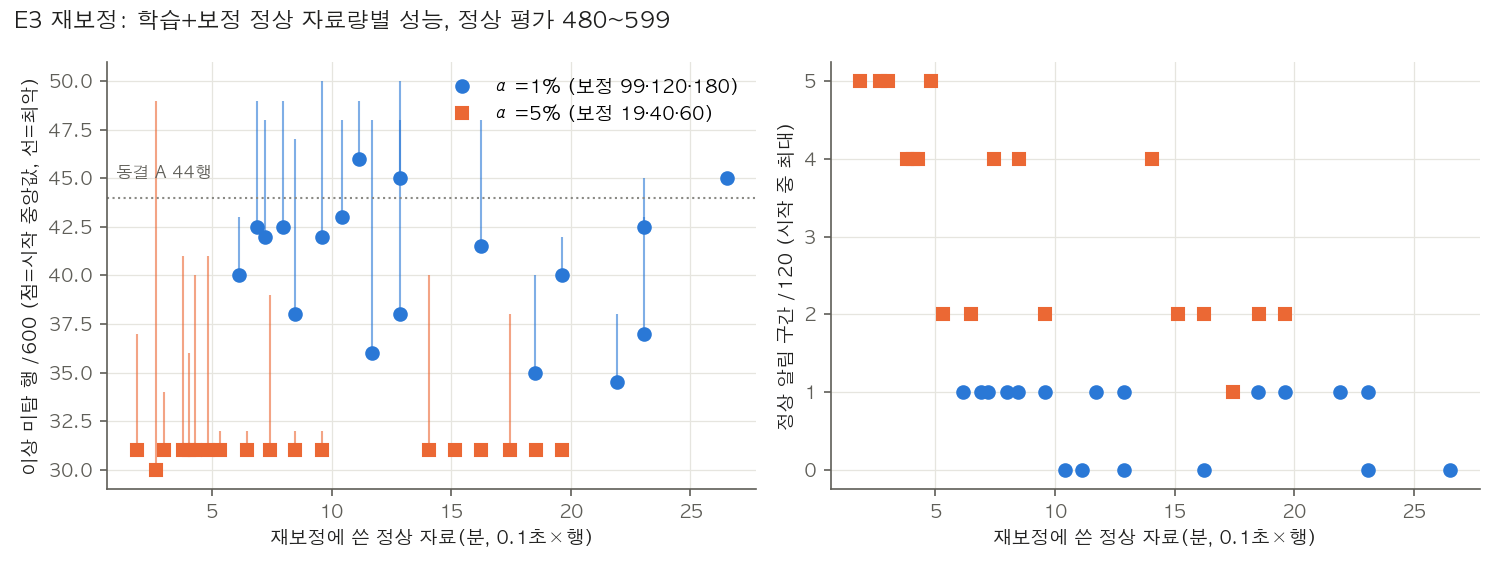
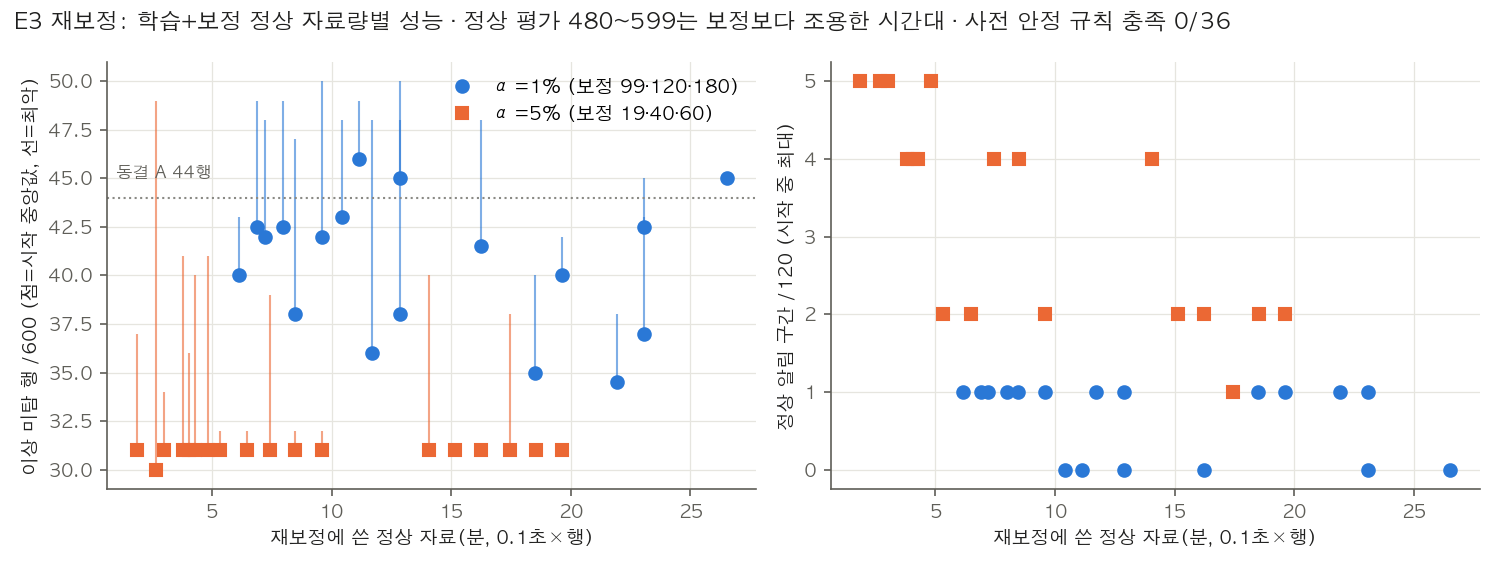
yejun/: 루브릭 검수 1단계 — 보완 실험·비교·press_guard 문서와 그림 정정(R1 맥락·R5·R11~R13·R17 일부)
한 일: 루브릭 검수(d9655af)의 문서·그림 정정 묶음을 반영했다. 결과 재계산은 하지 않았다.
- R5: E3의 "사전 규칙 적용 불가"를 "36설정 모두 미충족, 사전 규칙상 최소 자료량 확인 못 함"으로 바로잡고, 15+99(약 6분)는 동일 날짜 사후 탐색값으로 분리했다.
- R12: 배수 표현을 좁혔다(전류 잔차 환산 5배, 오프셋 1.3배, 2배 격자의 한 단계).
- R13: "전류 주입 모두 100%" 오류를 고쳤다.
- R1: A 평가 구간이 가장 조용한 시간대라는 맥락을 붙였다(press_guard·supplement·dayshift·yejun README).
- R11: E1 그림에 분할별 무주입 경보율, 조건부 지연 표시, 분모를 넣었다.
- R17 일부: audit 14→16개.
- 비교 기록: 주최 측 무응답 회신과 검수 78점 기준 차이를 반영했다.
결과: 문서 6개, figures.py, 그림 2개. 표 칸 안 `|` 때문에 깨지던 표도 고쳤다. 콘솔 문구 "위치 2~6"(R17 나머지)은 audit 해시 대상인 web/index.html 변경이라, 전체 재실행이 필요한 3단계로 옮겼다.
다음: 2단계 진단·근거 보강 표(R1 표·R2~R4·R10·R14·R18~R22)를 별도 분석 폴더에 동결 기대값 밖으로 만든다. 이어 3단계 press_guard 운영 코드, 4단계 재현 계약. 미커밋 power_submission 변경은 건드리지 않음. 보고서·발표자료는 지시 전 금지.
도구: Claude Code

Changed region(s): [[0.0, 0.0, 0.828, 0.0596]]

diff --git a/yejun/analysis/press_supplement/README.md b/yejun/analysis/press_supplement/README.md
@@ -4,9 +4,9 @@
 
 | 실험 | 질문 | 한 줄 결과 |
 |---|---|---|
-| E1 고장 주입 | 시작 시각을 아는 이상을 몇 초 만에, 어느 세기부터 잡는가 | 전류 불규칙은 정상 σ의 0.1배, 전류 오프셋은 진폭의 0.4배부터 2초 안에 95% 이상 탐지. v1보다 절반 세기에서 탐지. 관측 이상은 이 하한보다 약 5배 강하다. 기록 시작부터 있는 오프셋·배율 변화와 전류 배율 변화는 잘 못 잡는다 |
+| E1 고장 주입 | 시작 시각을 아는 이상을 몇 초 만에, 어느 세기부터 잡는가 | 전류 불규칙은 정상 σ의 0.1배, 전류 오프셋은 진폭의 0.4배부터 2초 안에 95% 이상 탐지. 2배 간격 격자에서 v1보다 한 단계 낮은 세기에서 기준 충족. 관측 이상의 전류 불규칙은 잔차 환산 중앙값이 하한의 약 5배(오프셋 기준은 약 1.3배). 기록 시작부터 있는 오프셋·배율 변화와 전류 배율 변화는 잘 못 잡는다 |
 | E2 UCI v2 구조 | v2 구조를 UCI 펌프 누설에 그대로 쓰면? | **실패.** 현지 기준 AUROC 0.43~0.55로 무작위 수준. 기존 단순 모델(사이클 평균)은 두 조건에서 1.0. v2는 짧은 창의 과도 변화 탐지기이며, 느린 수준 변화인 누설에는 맞지 않는다 |
-| E3 재보정 곡선 | 정상 자료 몇 분이면 문턱이 안정되는가 | α=1%에서 학습 15구간+보정 99구간(정상 약 6분, 경과 약 14분)으로도 모든 시작 위치에서 정상 알림 ≤1/120, 이상 21/21, F1 ≥ 0.957. 사전 안정 규칙(주입 탐지 ≥90%)은 동결 모델도 못 넘는 규칙이라 적용 불가 → 사후 상대 규칙으로 보고 |
+| E3 재보정 곡선 | 정상 자료 몇 분이면 문턱이 안정되는가 | **사전 안정 규칙을 만족한 설정은 36개 중 0개**여서 사전 규칙상 최소 자료량은 확인하지 못했다. 결과를 본 뒤 정한 상대 기준으로는 α=1% 학습 15구간+보정 99구간(정상 약 6분, 경과 약 14분)이 가장 적은 탐색값이며, 모든 시작 위치에서 정상 알림 ≤1/120, 이상 21/21, F1 ≥ 0.963이었다. 같은 날 자료이고 평가 구간이 조용한 시간대라 새 날짜·설비의 최소량이 아니다 |
 
 ## E1 고장 주입 ([fault_injection.py](fault_injection.py))
 
@@ -16,20 +16,24 @@
 
 | 주입 족 | v2 하한 | v1 하한 | 하한에서 v2 지연 중앙값(A/B) | 관측 이상 21구간의 대략적 위치 |
 |---|---:|---:|---:|---|
-| 진동 잡음 s(×정상 σ) | 4 | 4 | 0.1 / 0.0초 | AI0 표준편차 기준 s≈5.3(중앙값), 10백분위는 0 |
-| 전류 잡음 s(×정상 σ) | **0.1** | 0.2 | 0.6 / 0.4초 (v1 0.8 / 0.7) | AR(2) 잔차 기준 s≈0.5(0.18~0.76) |
-| 전류 오프셋 d(×진폭) | **0.4** | 0.8 | 0.0 / 0.0초 (v1 0.2 / 0.1) | |평균|/진폭 중앙값 0.53 |
+| 진동 잡음 s(×정상 σ) | 4 | 4 | 0.1 / 0.0초 | AI0 표준편차 기준 s≈5.3(중앙값), 구간별 0~11.5, 10백분위는 0 |
+| 전류 잡음 s(×정상 σ) | **0.1** | 0.2 | 0.6 / 0.4초 (v1 0.8 / 0.7) | AR(2) 잔차를 백색잡음으로 환산한 s≈0.50(0.18~0.76, 계산 가능 20/21구간) |
+| 전류 오프셋 d(×진폭) | **0.4** | 0.8 | 0.0 / 0.0초 (v1 0.2 / 0.1) | 구간 평균의 절댓값/진폭 중앙값 0.53(하한의 약 1.3배). 짧은 구간 표본평균이라 DC 오프셋과 같지 않다 |
 | 전류 배율 k | 격자 안 없음 | 없음 | — | — |
 
-- 주입 없음의 2초 창 경보율은 A 0%, B 0.9%. t0 이전 경보가 난 기록은 모든 조건에서 0개였다.
-- 진동 잡음 s=2는 A 74%·B 94%로 분할에 따라 갈린다. 진동은 크기 성분만 반응해서 v1과 v2가 같다.
+하한은 2배 간격 격자(0.05·0.1·0.2·0.4…)의 계단값이다. 실제 하한은 v2 전류 잡음 (0.05, 0.1], v1 (0.1, 0.2]처럼 구간으로만 말할 수 있으므로 "v1의 절반 세기" 같은 정확한 배수로 쓰지 않는다.
+
+- 주입 없음의 2초 창 경보율은 A 0%(0/75), B 0.9%(1/111). t0 이전 경보가 난 기록은 모든 조건에서 0개였다. A 기준 기록은 조용한 시간대에 있다(아래 참고).
+- 진동 잡음 s=2는 A 74%·B 94%로 분할에 따라 갈린다. 진동은 크기 성분만 반응해서 v1과 v2가 같다. A의 기준 기록이 조용한 시간대에 있다는 점과 일관된다(원인 확정은 아님).
 - 첫 경보 근거(A, α=1%): 전류 잡음은 예측 오차(AR)와 파형이 나눠 잡고, 세기가 커질수록 예측 오차 비중이 커진다. 전류 오프셋은 계단 순간의 예측 오차가 먼저 잡는다. v1 대비 개선은 주로 이 성분에서 나온 것으로 보인다.
 - **약점 1 — 기록 시작부터 존재하는 변화(t0=0).** 오프셋 d=0.8은 A 3%·B 29%, 배율은 모든 k에서 7% 이하. 예측 오차는 "바뀌는 순간"을 잡으므로 앞선 정상 구간이 없으면 계단이 보이지 않는다. 대회 이상의 위치 0·1 미탐과 같은 구조적 한계다. 전류 잡음(s ≥ 0.1)과 진동 잡음(s ≥ 4)은 t0=0에서도 잡힌다.
 - **약점 2 — 전류 배율 변화.** k=1.15는 0~6%, k=1.5도 72~83%. 사인 모양이 유지되면 파형·예측 오차가 거의 변하지 않고, 크기 성분은 피크가 정상 꼬리를 넘을 때만 반응한다. 부하 증가처럼 진폭만 커지는 이상은 이 모델의 대상이 아니다.
 - 경사형(2초에 걸쳐 0→s): 전류 잡음 s=0.2가 2초 안 97~99%(지연 1.0~1.2초), 진동 잡음 s=4가 96~100%.
 - α=5%에서는 하한이 낮아진다(전류 잡음 0.1에서 98~99%, 진동 잡음 2에서 96~98%). 주입 없음 경보율은 1.3~3.6%로 올라간다.
 
-관측 이상 위치는 [e1_reference_segments.csv](e1_reference_segments.csv)의 기술 통계를 주입 척도로 환산한 근사다(잔차 표준편차는 잡음 외 왜곡도 포함). 대회 이상 21구간은 v2 탐지 하한보다 전류 기준 약 5배 강하다. 이 수치는 "대회 이상이 쉬운 편"이라는 뜻이며, 더 약한 이상도 잡는다는 실측은 아니다.
+관측 이상 위치는 [e1_reference_segments.csv](e1_reference_segments.csv)의 기술 통계를 주입 척도로 환산한 근사다. 전류 잡음 환산값은 `sqrt(이상 잔차 SD² − 정상 잔차 SD 중앙값²) / (전류 σ × sqrt(1 + φ1² + φ2²))`이며, 잔차 SD에는 잡음 외 왜곡도 섞여 있다. 이 환산으로는 대회 이상의 전류 불규칙이 v2 전류 잡음 하한의 약 5배(중앙값 0.50 대 0.1)다. 오프셋 기준으로는 약 1.3배이고, 진동은 구간에 따라 0부터 11.5까지 퍼져 있다. "21구간 모두가 5배 강한 고장"이라는 뜻이 아니며, 더 약한 실제 이상도 잡는다는 실측도 아니다.
+
+**평가 기록의 시간대.** 분할 A의 정상 평가 구간(480~599구간, 01:00~01:17)은 정상 77분 중 가장 조용한 시간대다. v2 A 평가 구간 중 최대 점수가 보정 구간 중앙값을 넘는 것은 12/120(교환가능하면 약 60개, Mann–Whitney p=2.9e-11)이고, B 평가 구간도 50/180이다([총괄 재확인](../press_rubric_review/root_round2_checks.json)). E1의 A 기준 기록과 E3의 평가·새 날 모의가 모두 이 구간을 쓰므로, A 쪽 무주입 경보율 0%와 E3의 정상 알림 수는 유리한 조건에서 잰 값이다.
 
 전체 표 [e1_summary.csv](e1_summary.csv)(분할·족·세기·형태·t0·모델·α별), 그림 [fig_e1_detection.png](fig_e1_detection.png). 기록×조건 단위 원표는 `predictions_e1_records.csv`(Git 제외, 재실행으로 생성).
 
@@ -65,11 +69,12 @@ UCI 안정 사이클 1,449개를 10 Hz로 맞추고(EPS1·PS1 10개 평균, FS1 
 | (참고) 동결 A: 360 + 120 | 26.5 / 60.8 | 1 | 0 | 21 | 44 | 0.962 | — |
 
 - α=1%는 보정 99구간 미만이면 경보가 산식상 불가능하다(최소 p값 1/(n+1)). 필요한 정상 자료의 하한은 학습이 아니라 이 보정 구간 수가 정한다. 학습 15구간(약 50초 분량)으로도 성능이 유지됐다.
-- 자료가 적으면 성능 평균이 아니라 **문턱 흔들림**이 커진다. 학습 15+보정 99에서 시작 위치별 보정 최대값이 3.1~5.2로 달랐고, 진동 잡음 s=2 탐지율도 65~93%로 갈렸다. 전류 주입 탐지는 모든 설정에서 100%였다.
+- 자료가 적으면 성능 평균이 아니라 **문턱 흔들림**이 커진다. 학습 15+보정 99에서 시작 위치별 보정 최대값이 3.1~5.2로 달랐고, 진동 잡음 s=2 탐지율도 65~93%로 갈렸다. 전류 주입 탐지는 전류 잡음이 184개 적합 모두 100%, 전류 오프셋은 176개가 100%이고 8개가 96.0~98.7%였다. 학습 15+보정 99의 7개 시작은 두 전류 주입 모두 100%였다.
 - α=5%(보정 19·40·60)는 정상 2~5분 자료로도 계산되지만, 시작 위치에 따라 정상 알림이 최대 4~5/120까지 난다.
-- **사전 안정 규칙은 적용할 수 없었다.** 주입 탐지 ≥ 90% 조건은 진동 잡음 s=2 때문에 동결 모델(71%)도 못 넘는다. 주입 세기를 탐지 결과를 보기 전에 정해서 생긴 문제다. 사후 상대 규칙(모든 시작에서 정상 알림 ≤ 3, 이상 21/21, 주입 최소 탐지율 ≥ 동결 A − 10%p = 61%)으로 보면 α=1% 최소는 **학습 15 + 보정 99(정상 약 6분, 경과 약 14분)**, α=5% 최소는 학습 60 + 보정 40(약 5분)이다. 이 규칙은 결과를 본 뒤 정했다.
+- **사전 안정 규칙을 만족한 설정은 36개 중 0개다**([e3_stability.csv](e3_stability.csv)의 `stable`이 모두 False). 따라서 사전 규칙으로는 재보정 최소 자료량을 확인하지 못했다. 막은 조건은 주입 탐지 ≥ 90%였고, 진동 잡음 s=2는 동결 모델도 71%라 이 조건을 넘지 못했다. 주입 세기를 탐지 결과를 보기 전에 정한 결과이며, 규칙을 바꿔 사전 결과를 뒤집지 않는다.
+- 결과를 본 뒤 정한 **사후 상대 기준**(모든 시작에서 정상 알림 ≤ 3, 이상 21/21, 주입 최소 탐지율 ≥ 동결 A − 10%p = 61%)으로 따로 보면, 평가한 격자에서 자료가 가장 적은 설정은 α=1% 학습 15 + 보정 99(정상 5.96~7.06분, 중앙값 6.14분, 경과 약 14분, 시작 7개)와 α=5% 학습 60 + 보정 40(약 5분)이다. 같은 날 자료와 조용한 평가 구간(위 E1 참고)에서 얻은 탐색값이므로, 새 날짜·설비에서 검증된 최소 수집량으로 쓰지 않는다.
 
-**새 날 모의**([e3_domain_shift.csv](e3_domain_shift.csv)): 전류를 0.85·1.15·1.3배로 바꿔도 동결 A는 정상 알림 0/120, 이상 21/21이었다. 분할 A에서는 이 배율 변화가 오경보를 만들지 않아 재보정으로 회복시킬 상황이 없었다(press_dayshift에서 B는 k 1.05부터 정상 알림이 늘었다). 1.3배에서 보정만 다시 하면 문턱이 4.42→4.82로 올라 진동 주입 탐지가 71→62%로 떨어졌다. 재보정이 항상 이득은 아니며, 이상 탐지력 확인(주입 시험)과 함께 해야 한다.
+**새 날 모의**([e3_domain_shift.csv](e3_domain_shift.csv)): 전류를 0.85·1.15·1.3배로 바꿔도 동결 A는 정상 알림 0/120, 이상 21/21이었다. 분할 A에서는 이 배율 변화가 오경보를 만들지 않아 재보정으로 회복시킬 상황이 없었다(press_dayshift에서 B는 k 1.05부터 정상 알림이 늘었다). A 평가 구간이 조용한 시간대라는 점도 오경보가 나지 않은 데 기여했을 수 있다. 1.3배에서 보정만 다시 하면 문턱이 4.42→4.82로 올라 진동 주입 탐지가 71→62%로 떨어졌다. 재보정이 항상 이득은 아니며, 이상 탐지력 확인(주입 시험)과 함께 해야 한다.
 
 전체 표 [e3_curve.csv](e3_curve.csv), 요약 [e3_stability.csv](e3_stability.csv), 그림 [fig_e3_recalibration.png](fig_e3_recalibration.png).
 
@@ -77,7 +82,7 @@ UCI 안정 사이클 1,449개를 10 Hz로 맞추고(EPS1·PS1 10개 평균, FS1 
 
 1. E2 첫 실행에서 평가 모드 이름에 protocol.json의 괄호 설명이 붙어 현지 기준 평가가 다른 냉각 분기로 계산됐다. 이름을 고쳐 다시 실행했고 결과 파일은 수정 후 실행분이다.
 2. E2 성분별 진단 CSV는 결과를 본 뒤 추가한 사후 진단이다. 주 결과 판정에는 쓰지 않았다.
-3. E3 안정 규칙은 위와 같이 적용할 수 없었고, 사후 상대 규칙을 따로 표시했다.
+3. E3 사전 안정 규칙은 36설정 모두 미충족이었다. 결과를 본 뒤 정한 상대 기준은 사전 결과와 분리해 탐색 결과로만 표시했다.
 4. E1 첫 실행은 집계 단계에서 열 이름(`shape`)이 pandas 속성과 겹쳐 멈췄다. 고친 뒤 전체를 다시 실행했고, 요약 CSV가 첫 실행과 바이트 단위로 같았다.
 
 ## 한계

diff --git a/yejun/analysis/power_press_comparison/README.md b/yejun/analysis/power_press_comparison/README.md
@@ -60,15 +60,17 @@
 
 | 완화 방법 | 막는 약점 | 상태(2026-09-26) |
 |---|---|---|
-| 고장 주입 시험: 정상 기록에 실제 이상과 비슷한 신호를 세기별로 심는다 | 시작 시각을 아는 이상으로 "이상 시작 후 몇 초 만에 탐지"를 측정. 같은 날 자료라 날짜 교락이 끊긴다 | **실시(2026-09-26, [press_supplement](../press_supplement/README.md) E1)**. 전류 불규칙 정상 σ×0.1·오프셋 진폭×0.4부터 2초 안 95% 이상 탐지(v1은 두 배 세기 필요). 관측 이상은 하한의 약 5배. 약점: 기록 시작부터 있는 오프셋·전류 배율 변화 |
+| 고장 주입 시험: 정상 기록에 실제 이상과 비슷한 신호를 세기별로 심는다 | 시작 시각을 아는 이상으로 "이상 시작 후 몇 초 만에 탐지"를 측정. 같은 날 자료라 날짜 교락이 끊긴다 | **실시(2026-09-26, [press_supplement](../press_supplement/README.md) E1)**. 전류 불규칙 정상 σ×0.1·오프셋 진폭×0.4부터 2초 안 95% 이상 탐지(2배 간격 격자에서 v1은 한 단계 높은 세기에서 기준 충족). 관측 이상의 전류 불규칙은 잔차 환산 중앙값이 하한의 약 5배, 오프셋 기준은 약 1.3배. 약점: 기록 시작부터 있는 오프셋·전류 배율 변화 |
 | 날짜 교락 크기 검증: KAMP #46 유압모터 전류(46일)로 날짜 간 변동 폭을 잰다 | "이상일 차이 = 날짜 차이?"에 대한 반론 | **실시됐으나 근거가 되지 못함**. #46은 무부하 전류라 거의 일정하고 대회 전류와 비교 불가. 대회 정상 10분 블록 중앙값 변동(0.854~1.294배)이 이상의 1.302배와 겹침. 긍정 측면: 이상 전류를 정상 수준으로 맞춰도 v2가 21/21 탐지 → 전류 수준 차이만으로 탐지한 것은 아님 |
 | UCI 펌프 누설 자료에 v2 구조 그대로 적용(현재는 단순 모델 3종) | 실제 펌프 누설 강도별 탐지와 재보정 효과 | **실시, 부정적**(E2). AUROC 0.43~0.55로 무작위 수준. v2는 짧은 과도 탐지 구조라 느린 수준 변화인 누설에 맞지 않음 → 적용 범위를 좁히는 근거 |
-| 재보정 절차: 정상 자료 몇 분이면 문턱이 안정되는지 곡선 | 하루 정상 자료 → 새 설비·날짜 도입 절차로 전환 | **실시**(E3). α=1%에서 정상 약 6분(학습 15+보정 99구간, 경과 약 14분)으로 모든 시작 위치에서 정상 알림 ≤1/120·이상 21/21. 하한은 보정 99구간(산식). 자료가 적으면 문턱 흔들림이 커짐 |
-| 주최 측 문의: 수집 조건, 두 기록 선택 이유, 추가 기록 | 인용 가능한 근거 확보 | 예준 발송 대기 |
+| 재보정 절차: 정상 자료 몇 분이면 문턱이 안정되는지 곡선 | 하루 정상 자료 → 새 설비·날짜 도입 절차로 전환 | **실시, 사전 기준 미충족**(E3). 사전 안정 규칙을 만족한 설정은 36개 중 0개. 결과를 본 뒤 정한 상대 기준으로는 α=1% 정상 약 6분(학습 15+보정 99구간, 경과 약 14분)이 가장 적은 탐색값(같은 날 자료, 조용한 평가 구간). 하한은 보정 99구간(산식). 자료가 적으면 문턱 흔들림이 커짐 |
+| 주최 측 문의: 수집 조건, 두 기록 선택 이유, 추가 기록 | 인용 가능한 근거 확보 | **회신: 답변 불가.** 출제 데이터 문의에는 답하지 않고 가이드북을 참고하라는 답이었다. 외부 데이터는 공개 자료만 쓰고 보고서에 사유·방법·출처를 적는다. 추가 자료·답변 없이 팀이 해석을 정한다 |
 
 원래 예상은 보완 시 고점 약 +2점(89.5 → 91.5)이었다. 두 번째 경로가 근거가 되지 못했으므로 90.5로 낮춘 경우도 함께 계산했다(§4).
 
-2026-09-26 보완 실험 후: 고장 주입과 재보정 곡선은 성공했고 UCI 적용은 실패했다. 모의실험은 다시 돌리지 않았다. 판단으로는 §4의 90.5~91.5 사이이며, 프레스 고점이 전력 고점을 넘는다는 근거는 생기지 않았다.
+2026-09-26 보완 실험 후: 고장 주입은 근거를 더했고, 재보정 곡선은 사전 기준을 충족하지 못해 사후 탐색값만 남았으며, UCI 적용은 실패했다. 모의실험은 다시 돌리지 않았다. 판단으로는 §4의 90.5~91.5 사이이며, 프레스 고점이 전력 고점을 넘는다는 근거는 생기지 않았다.
+
+같은 날 [루브릭 검수](../press_rubric_review/README.md)는 지금 산출물에 있는 근거만 세어 프레스를 78/100(범위 72~85.5)으로 봤다. 위 추정은 보고서가 작업을 온전히 담는다는 가정이라 기준이 다르다. 차이는 대부분 검수의 수정 목록(R1~R24)에서 나온다.
 
 ## 6. 판단
 

diff --git a/yejun/README.md b/yejun/README.md
@@ -13,7 +13,7 @@
 - [위치 0·1 미탐 후보 실험](analysis/press_early/README.md): 2026-09-25 공동 정상 분포·1차 예측 오차 후보를 사전 고정해 시험, 둘 다 채택 기준 불충족(정상 알림 증가 또는 개선 없음). v2 유지
 - [Claude 후속 구현 Codex 재검수](analysis/press_guard_review/codex_recheck.md): 검증·동결 누락 경로와 웹 차트/재생 결함 수정, 미탐 해석 교정, 토의 항목 3개 판단
 - [코덱스 인수인계 검수·웹 콘솔 구현](analysis/press_guard_review/README.md): Claude의 v2·후보 탐색·UCI 재현, 웹 연결·검수·벤치마크 및 사용자 위임에 따른 v2 채택·디벨롭 이력
-- [Press Guard v2 구현·실험](press_guard/README.md): 2026-09-25 정상 전류 AR(2) 잔차 결합으로 F1 A 0.961938/B 0.970990, 미탐 44/31, 정상 알림 0/120·3/180 유지. 테스트 42개·JS 회귀 4개 통과. 로컬 웹 콘솔 동작
+- [Press Guard v2 구현·실험](press_guard/README.md): 2026-09-25 정상 전류 AR(2) 잔차 결합으로 F1 A 0.961938/B 0.970990, 미탐 44/31, 정상 알림 0/120·3/180 유지(A 평가 구간은 보정보다 조용한 시간대라 0/120은 유리한 조건의 값). 테스트 42개·JS 회귀 4개 통과. 로컬 웹 콘솔 동작
 - [외부 유압 데이터 확보·검증](analysis/press_external/README.md): UCI 2,205사이클 다운로드·CRC 확인 및 18개 고정 비교 완료. 다른 운전 환경으로의 무보정 전이 실패도 보존
 - [프레스 성능 개선 후보 실험](analysis/press_improvement/README.md): 2026-09-25 초반 6→8관측 창 후보가 정상 알림·21/21 탐지를 유지하며 F1 A 0.910→0.923, B 0.920→0.935. 탐색 결과이며 기본 모델은 유지
 - [Claude 2차 수정에 대한 Codex 재검수](analysis/press_implementation_review/codex_recheck_2.md): 2026-09-25 테스트 49개·깨끗한 클론 27/27 및 39/39·독립 재집계 통과. 실제 코드·모델 파일 변경과 기준값 출처도 확인. 보고서 작성은 보류

diff --git a/yejun/analysis/press_dayshift/README.md b/yejun/analysis/press_dayshift/README.md
@@ -57,7 +57,7 @@
 | 1.30 | 0/120 | 6/180 | 21/21 / 39 | 21/21 / 30 |
 | 1.50 | 0/120 | 17/180 | 21/21 / 38 | 21/21 / 28 |
 
-- 허용 구간(두 분할 모두 정상 알림이 k=1 이하): **k 0.50~1.04**. 분할 B는 전류가 5% 오르면 정상 알림이 늘기 시작한다. 분할 A는 1.5배까지 늘지 않는다. B의 보정 문턱이 더 낮기 때문이다(3.52 대 4.42).
+- 허용 구간(두 분할 모두 정상 알림이 k=1 이하): **k 0.50~1.04**. 분할 B는 전류가 5% 오르면 정상 알림이 늘기 시작한다. 분할 A는 1.5배까지 늘지 않는다. B의 보정 문턱이 더 낮기 때문이다(3.52 대 4.42). A의 정상 평가 구간(01:00~01:17)이 정상 77분 중 가장 조용한 시간대라는 점도 기여한다(보정 중앙값을 넘는 평가 구간 12/120, [루브릭 검수 R1](../press_rubric_review/README.md)).
 - 이상 21구간 탐지는 모든 k에서 유지된다. 전류를 절반으로 줄여도 21/21이다.
 - S2: 이상 자료 전류를 ×0.768로 줄여 정상 수준에 맞춰도 **두 분할 모두 21/21**이다. 미탐 행은 A 44→48, B 31→35로 조금 늘었다([v2_abnormal_level_normalized.csv](v2_abnormal_level_normalized.csv)). v2의 구간 탐지는 전류 수준 차이에 의존하지 않는다.
 - 참고 현장의 날짜 간 비(5~95% 0.987~1.013, 최대 1.035)는 허용 구간 안이다. 전류가 이 정도로만 변하는 현장이라면 재보정 없이 정상 알림이 늘지 않는다는 모의 결과다. 대회 프레스의 날짜 간 변동은 모른다.
